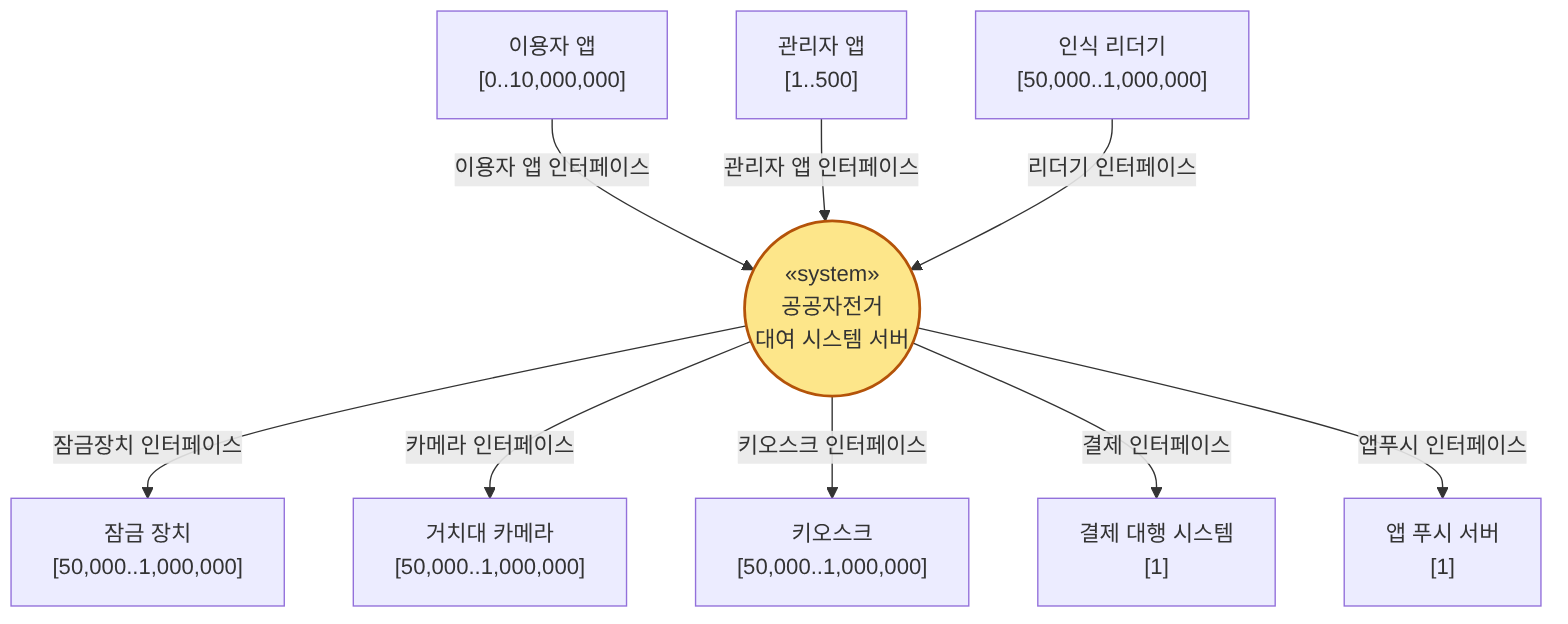
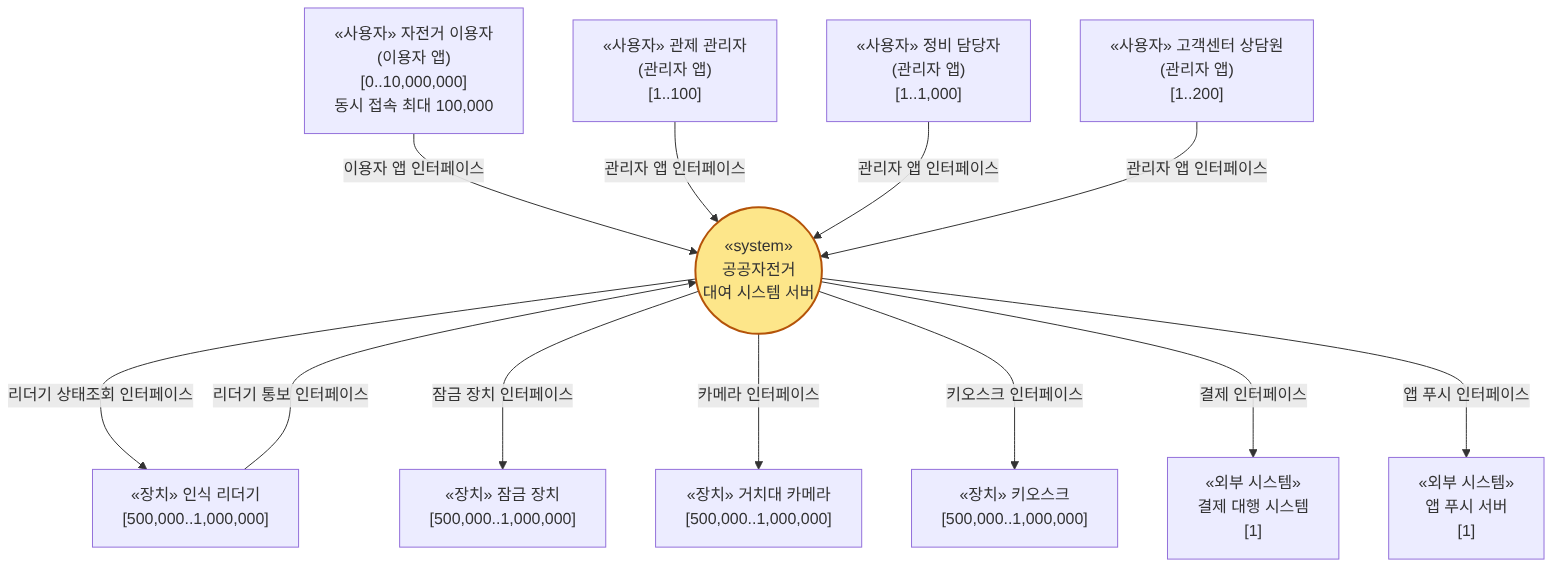
Gemini와 ChatGPT(모두 무료 버전) 리뷰 결과 반영

diff --git a/system_overview.md b/system_overview.md
@@ -26,18 +26,17 @@ Interface의 목적/특성 등이 반영된 이름을 정의함.
 
 \* 화살표 방향은 최초 제어 방향(Client → Server), [ ]는 multiplicity. 원본: `diagrams/system_context.mmd`
 
-| External Interface | 방향 | 목적 |
-| --- | --- | --- |
-| 이용자 앱 인터페이스 | 이용자 앱 → 시스템 | 대여소 조회, 예약, QR 대여 요청, 결제수단·미결제 요금 처리, 이용 이력 조회 |
-| 관리자 앱 인터페이스 | 관리자 앱 → 시스템 | 대여소·장비 현황 관제, 원격 잠금/해제, 정비·재배치 관리, 기준값 설정 |
-| 리더기 인터페이스 | 인식 리더기 → 시스템 | 자전거 식별 태그 인식 통보(반납·재배치 거치 시작) |
-| 잠금장치 인터페이스 | 시스템 → 잠금 장치 | 잠금/해제 명령과 잠금 결과 확인 |
-| 카메라 인터페이스 | 시스템 → 거치대 카메라 | 반납 자전거 촬영 요청과 영상 수신 |
-| 키오스크 인터페이스 | 시스템 → 키오스크 | 대여·반납 결과와 거치대 상태 표시 |
-| 결제 인터페이스 | 시스템 → 결제 대행 시스템 | 예약 수수료·이용 요금 결제 승인, 취소, 거래 결과 조회 |
-| 앱푸시 인터페이스 | 시스템 → 앱 푸시 서버 | 이용자(반납 확정, 결제 실패, 예약 취소)와 관리자(장비 고장, 재배치 추천, 정비 필요)에게 알림 발송 요청 |
-
-\* 장치 4종의 상태 수집은 각 장치 인터페이스 채널에 포함되며, 수집 방식(주기적 조회 또는 주기적 보고)은 Design Decision에서 결정한다.
+| External Interface | 방향 | 유형 | 목적 |
+| --- | --- | --- | --- |
+| 이용자 앱 인터페이스 | 자전거 이용자 → 시스템 | 요청/응답 | 대여소 조회, 예약·예약 취소, QR 대여 요청, 결제수단 등록, 미결제 요금 해결, 이용 이력 조회 |
+| 관리자 앱 인터페이스 | 관제 관리자, 정비 담당자, 고객센터 상담원 → 시스템 | 요청/응답 | (관제) 대여소·장비 현황 조회, 재배치 추천 대여소 조회, 원격 잠금/해제, 기준값 설정 / (정비) 정비 필요 자전거 조회, 정비 완료 처리 / (상담) 이용·결제 이력 조회 |
+| 리더기 통보 인터페이스 | 인식 리더기 → 시스템 | 이벤트 통보 | 자전거 식별 태그 인식 통보(반납·재배치 거치 시작) |
+| 리더기 상태조회 인터페이스 | 시스템 → 인식 리더기 | 요청/응답 | 리더기 기능별 상태 조회 |
+| 잠금 장치 인터페이스 | 시스템 → 잠금 장치 | 요청/응답 | 잠금/해제 명령과 잠금 결과 확인, 기능별 상태 조회 |
+| 카메라 인터페이스 | 시스템 → 거치대 카메라 | 요청/응답 | 반납 자전거 촬영 요청과 영상 수신, 기능별 상태 조회 |
+| 키오스크 인터페이스 | 시스템 → 키오스크 | 요청/응답 | 대여·반납 결과와 거치대 상태 표시, 기능별 상태 조회 |
+| 결제 인터페이스 | 시스템 → 결제 대행 시스템 | 요청/응답 | 결제 토큰(빌링키) 발급, 예약 수수료·이용 요금 결제 승인, 취소, 거래 결과 조회 |
+| 앱 푸시 인터페이스 | 시스템 → 앱 푸시 서버 | 알림 발송 요청 | 이용자(반납 확정, 결제 실패, 예약 취소)와 관리자(장비 고장, 재배치 추천, 정비 필요)에게 보낼 알림 발송 요청. 단말 전달은 비동기 |
 
 ## External Entity List
 <!--
@@ -53,14 +52,16 @@ System Context Diagram의 각 External entity가 모두 나열되어야 함.
 
 | Name | Kind | Description |
 | --- | --- | --- |
-| 이용자 앱 | 외부 시스템 (사용자 단말 앱) | **역할**: 자전거 이용자가 대여소 조회·예약, QR 스캔 대여, 결제수단 등록, 미결제 요금 해결을 요청하는 모바일 앱. 개발 범위 밖이며 시스템이 제공하는 인터페이스를 사용함<br>**Multiplicity**: 누적 0..10,000,000 계정 (현재 회원 500만 가정 × BG-18의 2배 확장), 출퇴근 피크 동시 접속 최대 100,000<br>**단말 환경/숙련도**: Android·iOS 스마트폰, LTE/5G·Wi-Fi(이동 중 통신 품질 변동). 연령대가 다양한 일반인으로 숙련도 편차가 큼 |
-| 관리자 앱 | 외부 시스템 (관리자 단말 앱) | **역할**: 관제 관리자·정비 담당 관리자가 전국 대여소 현황 확인, 원격 잠금/해제, 정비·재배치 관리, 기준값 설정을 요청하는 앱<br>**Multiplicity**: 1..500 (관제센터 및 지자체별 관리자, 전국 약 250개 지자체 × 2명)<br>**단말 환경/숙련도**: 업무용 태블릿·스마트폰, 사내망/LTE. 운영 교육을 받은 숙련 사용자 |
-| 인식 리더기 | 외부 장치 | **역할**: 거치대에 꽂힌 자전거의 식별 태그를 읽어 시스템에 통보하여 반납 또는 재배치 거치를 시작시킴<br>**Multiplicity**: 50,000..1,000,000 (거치대당 1대, 5만 대여소 × 평균 10거치대 = 50만, BG-18 확장 고려 최대 100만)<br>**품질 수준**: 태그 인식 후 0.5초 이내 통보. 대여소 네트워크 장애 시 일시적으로 통신이 끊길 수 있고, 재연결 후 같은 인식 이벤트가 중복 전달될 수 있음 |
-| 잠금 장치 | 외부 장치 | **역할**: 시스템의 명령에 따라 거치대의 자전거를 잠그거나 풀고, 잠금 결과(잠금 확인)를 응답함<br>**Multiplicity**: 50,000..1,000,000 (거치대당 1대)<br>**품질 수준**: 명령 수신 후 1초 이내 동작 및 결과 응답. 기계적 고장·자전거 미삽입으로 잠금 실패가 발생할 수 있음 |
-| 거치대 카메라 | 외부 장치 | **역할**: 시스템의 요청에 따라 반납된 자전거를 촬영하여 영상을 전달함. 파손 판정은 시스템이 수행함<br>**Multiplicity**: 50,000..1,000,000 (거치대당 1대)<br>**품질 수준**: 요청 후 2초 이내 촬영 영상(약 1MB) 전송. 야간·우천·역광 시 영상 품질이 낮아질 수 있음 |
-| 키오스크 | 외부 장치 | **역할**: 거치대별 안내 화면으로, 시스템이 보낸 대여·반납 결과와 거치대 상태(대여 가능 / 정비 필요 / 빈 거치대)를 현장 이용자에게 표시함<br>**Multiplicity**: 50,000..1,000,000 (거치대당 1대)<br>**품질 수준**: 표시 요청 후 0.5초 이내 출력 |
-| 결제 대행 시스템 | 외부 시스템 | **역할**: 등록된 신용카드로 예약 수수료·이용 요금 결제를 승인·취소하고 거래 결과를 제공하는 PG사 시스템<br>**Multiplicity**: 1 (단일 PG사 계약)<br>**품질 수준**: 가용성 99.9%(카드사별 정기 점검 시간 존재), 승인 응답 평균 1~3초, 거래 고유번호로 결과 조회 가능. 전자금융거래 안전성 기준 준수 |
-| 앱 푸시 서버 | 외부 시스템 | **역할**: 시스템의 발송 요청을 받아 이용자 앱·관리자 앱에 푸시 알림을 전달하는 외부 서비스(예: FCM)<br>**Multiplicity**: 1<br>**품질 수준**: 가용성 99.9%. 전달은 best-effort로 지연·누락될 수 있어 알림 수신을 보장하지 않음 |
+| 자전거 이용자 | 사용자 | **역할**: 이용자 앱으로 대여소를 조회·예약하고, QR 스캔으로 자전거를 대여하며, 결제수단 등록과 미결제 요금 해결을 요청함. 반납은 거치대에 꽂는 것으로 이루어져 시스템과 직접 주고받지 않음<br>**Multiplicity**: 누적 0..10,000,000 계정(현재 회원 500만 × BG-12의 2배 확대), 출퇴근 피크 동시 접속 최대 100,000<br>**단말 환경**: 개발 범위 밖의 이용자 앱(Android·iOS). 이동 중 LTE/5G 통신 품질이 변해 요청이 끊길 수 있고, 앱은 10초 동안 응답이 없으면 같은 요청을 다시 보내므로 동일 요청이 중복 도착할 수 있음<br>**숙련도·사용 행태**: 고령층·외국인을 포함한 일반인으로 숙련도 편차가 큼. 출퇴근 시간대에 이용이 몰리고, 야외에서 서서 한 손으로 조작하며 야간·우천 시에도 이용함 |
+| 관제 관리자 | 사용자 | **역할**: 관리자 앱으로 담당 범위(운영기관 중앙 관제센터는 전국, 지자체 관제 담당은 소속 시·도) 대여소의 거치대·자전거·빈 거치대 현황, 장비 고장 알림, 재배치 추천 대여소를 확인하고, 잠금 장치를 원격으로 잠그거나 풀며(재배치 시 "재배치 중" 지정), 대여 가능 기준값을 설정함<br>**Multiplicity**: 1..100 (중앙 관제센터 및 17개 시·도 관제 × 24시간 3교대 × 근무조당 약 2명)<br>**단말 환경/숙련도**: 관제센터 PC·업무용 태블릿의 관리자 앱, 사내망. 운영 교육을 받은 숙련 사용자 |
+| 정비 담당자 | 사용자 | **역할**: 관리자 앱으로 정비 필요 자전거 목록과 위치를 확인하고, 정비 완료 후 대여 가능 상태로 복귀시킴<br>**Multiplicity**: 1..1,000 (운영 자전거 35만 대 ÷ 1인당 약 500대 = 700명, 확대 고려)<br>**단말 환경/숙련도**: 현장용 스마트폰의 관리자 앱, LTE. 정비 교육을 받은 사용자로 야외 작업 중 짧게 조회함 |
+| 고객센터 상담원 | 사용자 | **역할**: 관리자 앱(상담 권한)으로 민원 이용자의 대여·반납·결제 이력을 조회하여 요금 민원에 응대함. 환불 처리는 결제 대행사 관리 도구에서 별도로 수행함<br>**Multiplicity**: 1..200 (동시 근무 상담원 수)<br>**단말 환경/숙련도**: 상담센터 PC의 관리자 앱, 사내망. 업무 숙련 사용자 |
+| 인식 리더기 | 외부 장치 | **역할**: 거치대에 꽂힌 자전거의 식별 태그를 읽어 시스템에 통보하여 반납 또는 재배치 거치를 시작시키고, 시스템의 상태 조회에 응답함<br>**Multiplicity**: 500,000..1,000,000 (거치대당 1대, 5만 대여소 × 평균 10거치대 = 50만, BG-12 확대 시 100만)<br>**품질 수준**: (모두 가정값) 태그 인식 후 0.5초 이내 통보, 상태 조회 0.5초 이내 응답. 태그 오인식률 인식 건당 0.1% 이하. 고장률 장치당 연 2%(연간 고장 건수 ÷ 설치 대수), 현장 복구 평균 24시간. 네트워크 단절 후 재연결 시 같은 인식 통보가 중복 전달될 수 있음 |
+| 잠금 장치 | 외부 장치 | **역할**: 시스템의 명령에 따라 거치대의 자전거를 잠그거나 풀고, 잠금 결과와 상태를 응답함<br>**Multiplicity**: 500,000..1,000,000 (거치대당 1대)<br>**품질 수준**: (모두 가정값) 명령 수신 후 1초 이내 동작·결과 응답. 일시적 잠금 실패(자전거 미삽입·걸림 등, 재시도로 해소)는 명령 건당 0.5% 이하. 기계적 고장은 장치당 연 3%, 현장 복구 평균 24시간 |
+| 거치대 카메라 | 외부 장치 | **역할**: 시스템의 요청에 따라 반납된 자전거를 촬영해 영상을 전달하고 상태 조회에 응답함. 파손 판정은 시스템이 수행함<br>**Multiplicity**: 500,000..1,000,000 (거치대당 1대)<br>**품질 수준**: (모두 가정값) 요청 후 2초 이내 JPEG 영상(1920×1080, 약 500KB) 전송. 야간·우천·역광·렌즈 오염 시 판정에 쓸 수 없는 영상이 촬영 건당 최대 3% 나올 수 있음. 고장률 장치당 연 3%, 현장 복구 평균 48시간 |
+| 키오스크 | 외부 장치 | **역할**: 거치대별 안내 화면으로, 시스템이 보낸 대여·반납 결과와 거치대 상태(대여 가능 / 정비 필요 / 빈 거치대)를 현장 이용자에게 표시하고 상태 조회에 응답함<br>**Multiplicity**: 500,000..1,000,000 (거치대당 1대)<br>**품질 수준**: (모두 가정값) 표시 요청 후 0.5초 이내 출력. 고장률 장치당 연 2%, 현장 복구 평균 24시간 |
+| 결제 대행 시스템 | 외부 시스템 | **역할**: 이용자가 카드 인증을 마치면 결제 토큰(빌링키)을 발급하고, 그 토큰으로 예약 수수료·이용 요금의 결제 승인·취소를 수행하며 거래 결과를 제공하는 PG사 시스템<br>**Multiplicity**: 1 (단일 PG사 계약)<br>**품질 수준**: 가용성 99.9%(카드사별 정기 점검 시간 존재). 가맹점당 허용 처리량 초당 500건. 승인 응답 평균 1~3초, 10초 안에 응답이 없으면 거래 고유번호로 결과를 조회해 확인해야 함. 전자금융거래 안전성 기준 준수 |
+| 앱 푸시 서버 | 외부 시스템 | **역할**: 시스템의 발송 요청을 받아 이용자 앱·관리자 앱에 푸시 알림을 전달하는 외부 서비스(예: FCM)<br>**Multiplicity**: 1<br>**품질 수준**: 가용성 99.9%. 발송 요청 접수 초당 1,000건 이상, 접수 응답 0.5초 이내. 실제 단말 전달은 best-effort로 지연·누락될 수 있어 수신을 보장하지 않음 |
 
 ## System Feature List
 <!--
@@ -83,18 +84,19 @@ Feature의 Importance가 타당해야 함. 즉 관련 Business goal의 Stakehold
 | ID | Title | Description | I | Related<br>Business Goal ID |
 | --- | --- | --- | --- | --- |
 | SF-01 | 헛걸음 없는 대여소 찾기와 자전거 예약 | 이용자는 가려는 곳 주변 대여소의 실제 대여 가능 자전거 수와 빈 거치대 수를 미리 확인하고, 자전거를 예약해 15분 동안 확보할 수 있다. 도착했는데 자전거가 없거나 반납할 곳이 없는 일을 줄인다. | 상 | BG-01 |
-| SF-02 | 기다림 없는 대여와 어디서나 반납 | 이용자는 QR 스캔만으로 곧바로 자전거를 빼고, 어느 대여소에든 꽂기만 하면 바로 반납이 확정되어 키오스크와 앱으로 확인받는다. 반납이 됐는지 불안해할 필요가 없다. | 상 | BG-01, BG-02 |
-| SF-03 | 이용한 만큼만 정확한 자동 요금 정산 | 반납 확정 시점까지의 이용 시간으로 요금이 계산되고 예약 수수료를 뺀 금액이 등록 카드로 자동 결제된다. 한 번의 이용에 요금이 두 번 청구되거나 빠지는 일이 없고, 상담원은 이용·결제 이력으로 민원을 바로 확인한다. | 상 | BG-03, BG-09, BG-11, BG-12 |
-| SF-04 | 미결제 요금 회수 | 자동 결제가 실패하면 이용자에게 즉시 알리고, 미결제 요금을 해결할 때까지 새 대여를 막아 운영기관의 미수금을 줄인다. | 중 | BG-09 |
-| SF-05 | 반납 자전거 자동 안전 점검 | 반납된 자전거를 거치대 카메라로 자동 점검해 파손 자전거는 다음 이용자에게 대여되지 않도록 바로 막고, 정비 담당자에게 정비 대상으로 알린다. 정상 자전거를 잘못 막는 일도 줄인다. | 상 | BG-04, BG-07 |
-| SF-06 | 대여소 장비 고장 즉시 인지 | 리더기, 잠금 장치, 카메라, 키오스크의 상태를 계속 확인하여 고장이 나면 민원이 들어오기 전에 관리자에게 알린다. | 상 | BG-05, BG-15 |
-| SF-07 | 전국 대여소 한눈에 관제와 원격 조치 | 관리자는 전국 대여소의 거치대·자전거·빈 거치대 현황을 한 곳에서 보고, 현장에 가지 않고 잠금 장치를 원격으로 잠그거나 풀 수 있다. | 중 | BG-05, BG-06, BG-10 |
-| SF-08 | 자전거 불균형 해소 지원 | 자전거가 부족하거나 거치대가 가득 찬 대여소를 주기적으로 찾아 관리자에게 추천하고, 재배치 중인 자전거는 요금 없이 도착 대여소에 바로 반영되어 재배치 기사의 사후 정정 작업이 없다. | 중 | BG-06, BG-08 |
-| SF-09 | 이용자 개인정보와 결제 정보 보호 | 이용자의 개인정보와 카드 정보가 외부로 새지 않도록 보호하여 이용자는 안심하고 카드를 등록하고, 운영기관은 법적 책임과 신뢰 하락 위험을 줄인다. | 상 | BG-17 |
-| SF-10 | 365일 24시간 끊김 없는 서비스 | 출퇴근 시간에 이용이 몰리거나 일부 서버·외부 시스템에 문제가 생겨도 대여·반납이 멈추지 않는다. | 상 | BG-15 |
-| SF-11 | 대여소·회원 증가에도 같은 서비스 품질 | 대여소와 회원이 늘어나도 대여·반납 속도가 유지되고, 새 대여소는 등록만으로 서비스를 시작해 운영비 증가를 억제한다. | 중 | BG-18, BG-10 |
-| SF-12 | 다양한 제조사 장비의 손쉬운 연동 | 장비 제조사가 바뀌거나 새 장비 모델이 들어와도 기존 서비스를 건드리지 않고 짧은 기간에 연동해 개발·시험 부담을 줄인다. | 중 | BG-13, BG-14, BG-16 |
-| SF-13 | 요금 정책 변경의 신속한 반영 | 요금·예약 수수료 정책이 바뀌면 다른 기능에 영향 없이 빠르게 반영해 운영기관의 정책 변경 요구에 대응한다. | 하 | BG-16 |
+| SF-02 | 기다림 없는 대여와 어디서나 반납 | 이용자는 QR 스캔만으로 곧바로 자전거를 빼고, 어느 대여소에든 꽂기만 하면 바로 반납이 확정되어 현장 키오스크로 즉시 확인받고, 앱에서도 반납 확정 알림과 이용 내역을 확인할 수 있다. | 상 | BG-01, BG-02 |
+| SF-03 | 이용한 만큼만 정확한 자동 요금 정산 | 반납이 확정된 시점까지의 이용 시간으로 요금이 계산되고, 예약 수수료를 뺀 금액이 등록 카드로 자동 결제된다. 한 번의 이용에 요금이 두 번 청구되거나 빠지는 일이 없어 이용자와 PG사 모두 사후 정정 업무가 없다. | 상 | BG-03, BG-10, BG-14 |
+| SF-04 | 미결제 요금 회수 | 자동 결제가 실패하면 이용자에게 바로 알리고, 미결제 요금을 해결할 때까지 새 대여를 막아 운영기관의 미수금을 줄인다. | 중 | BG-10 |
+| SF-05 | 반납 자전거 자동 안전 점검 | 반납된 자전거를 거치대 카메라로 자동 점검해 파손 자전거는 다음 이용자에게 대여되지 않도록 바로 막고, 정비 담당자에게 정비 대상으로 알린다. 정상 자전거를 잘못 막아 불필요한 출동이 생기는 일도 줄인다. | 상 | BG-04, BG-08 |
+| SF-06 | 대여소 장비 고장 즉시 인지 | 리더기, 잠금 장치, 카메라, 키오스크의 상태를 계속 확인하여 고장이 나면 민원이 들어오기 전에 관제 관리자에게 알린다. | 상 | BG-06, BG-17 |
+| SF-07 | 전국 대여소 한눈에 관제와 원격 조치 | 관제 관리자는 전국 대여소의 거치대·자전거·빈 거치대 현황을 한 곳에서 보고, 현장에 가지 않고 잠금 장치를 원격으로 잠그거나 풀 수 있다. | 중 | BG-06, BG-07, BG-11 |
+| SF-08 | 자전거 불균형 해소 지원 | 자전거가 부족하거나 거치대가 가득 찬 대여소를 주기적으로 찾아 관제 관리자에게 추천하고, 재배치 중인 자전거는 요금 없이 도착 대여소에 바로 반영되어 재배치 기사의 사후 확인·정정 업무가 없다. | 중 | BG-07, BG-09 |
+| SF-09 | 이력 기반 신속한 민원 응대 | 고객센터 상담원은 민원 이용자의 대여·반납·결제 이력을 바로 조회해 요금 민원을 짧은 시간 안에 확인하고 답변한다. | 하 | BG-13 |
+| SF-10 | 이용자 개인정보와 결제 정보 보호 | 이용자의 개인정보와 카드 정보가 외부로 새지 않도록 보호하여 이용자는 안심하고 카드를 등록하고, 운영기관은 법적 책임과 신뢰 하락 위험을 줄인다. | 상 | BG-05 |
+| SF-11 | 365일 24시간 끊김 없는 서비스 | 출퇴근 시간에 이용이 몰리거나 일부 장비나 시스템·외부 연동에 문제가 생겨도 대여·반납이 중단되는 시간을 최소화한다. 결제 대행 시스템에 문제가 생겨도 반납은 확정되고 결제는 나중에 마무리된다. | 상 | BG-17 |
+| SF-12 | 대여소·회원 증가에도 같은 서비스 품질 | 대여소와 회원이 늘어나도 대여·반납이 느려지지 않고, 새 대여소는 등록만으로 서비스를 시작해 운영 인력과 비용 증가를 억제한다. | 중 | BG-12, BG-11 |
+| SF-13 | 다양한 제조사 장비의 손쉬운 연동 | 장비 제조사가 바뀌거나 새 장비 모델이 들어와도 기존 서비스를 건드리지 않고 짧은 기간에 연동하여, 공급업체·개발 조직·유지보수 조직의 연동·재시험 부담을 줄인다. | 중 | BG-15, BG-16, BG-18 |
+| SF-14 | 요금 정책 변경의 신속한 반영 | 요금·예약 수수료 정책이 바뀌면 다른 업무에 영향 없이 빠르게 반영해 운영기관의 정책 변경 요구에 대응한다. | 중 | BG-18 |
 
 \* I(Importance): 상 중 하로 구분
 
@@ -105,26 +107,44 @@ Feature의 Importance가 타당해야 함. 즉 관련 Business goal의 Stakehold
 특히 기존 안내 자료에서 표현된 조건이나 기능 중 본 과제를 위해 수정하였거나 확장한 부분이 있다면 그에 대해 기술한다.
 -->
 
+**사업 및 범위**
+
+1. 본 시스템은 기존 지자체별 개별 공공자전거 시스템을 대체하는 전국 단일 통합 플랫폼이다. 전국 단일 운영기관(공단)이 단일 요금 정책으로 운영하고, 회원·요금·결제 데이터는 운영기관이 일괄 관리한다. 운영기관 중앙 관제센터는 전국을 관제하고, 지자체(시·도)는 자기 지역 대여소에 대한 관제 권한만 가진다. 지자체 소속 관제 관리자 계정은 소속 지역의 대여소만 조회·조작할 수 있다.
+2. 이용자 앱과 관리자 앱은 개발 범위 밖이며, 시스템은 앱이 사용할 인터페이스만 제공한다. Context Diagram과 Use Case의 사용자는 앱을 통해 시스템을 이용하는 사람(자전거 이용자, 관제 관리자, 정비 담당자, 고객센터 상담원)으로 표현한다.
+3. 관리자 앱은 관제 관리자, 정비 담당자, 고객센터 상담원이 함께 사용하며 로그인 계정의 역할에 따라 사용할 수 있는 기능이 다르다.
+4. 앱 알림 전달을 위해 안내 자료에 없는 외부 앱 푸시 서버를 도입·연동한다. (안내 자료 확장)
+
 **규모 및 부하**
 
-1. 대여소는 5만 개, 대여소당 평균 10개의 거치대가 있으며 거치대마다 인식 리더기·잠금 장치·거치대 카메라·키오스크가 1대씩 설치된다(대여소 구성 그림 기준). 거치대는 총 50만 개이며, BG-18에 따라 최대 100만 개까지 확장될 수 있다고 가정한다.
-2. 운영 자전거는 약 35만 대(거치대 수의 70%), 회원은 현재 500만 명(최대 1,000만 명)으로 가정한다.
-3. 출퇴근 피크 시 대여·반납 요청은 각각 초당 최대 100건, 이용자 앱 동시 접속은 최대 10만으로 가정한다.
+5. 대여소는 5만 개, 대여소당 평균 10개의 거치대가 있으며 거치대마다 인식 리더기·잠금 장치·거치대 카메라·키오스크가 1대씩 설치된다. 거치대는 총 50만 개(장치 총 200만 대)이며, BG-12에 따라 최대 100만 개(장치 400만 대)까지 확대될 수 있다.
+6. 운영 자전거는 약 35만 대(거치대 수의 70%), 회원은 현재 500만 명(최대 1,000만 명)으로 가정한다.
+7. 출퇴근 피크 시 부하는 다음과 같이 가정한다: 이용자 앱 동시 접속 최대 10만, 대여소 조회 초당 최대 3,000건, 예약 초당 최대 30건, 대여·반납 각각 초당 최대 100건(결제 승인 요청은 초당 최대 130건). 반납마다 촬영이 1회 이루어지므로 반납 영상 수신은 피크 시 초당 약 50MB(약 400Mbps)이다.
+8. 장치 상태 조회 주기는 정하지 않는다. 장비 고장 인지 목표 시간(Quality Attribute로 정의)을 만족하도록 설계에서 정한다. 참고로 확대 규모 400만 대를 1분 주기로 조회하면 초당 약 6.7만 건, 5분 주기면 초당 약 1.3만 건이다.
 
-**외부 장치·시스템**
+**외부 장치·시스템 사양**
 
-4. 장치는 종류별로 제조사가 달라도 운영기관이 정한 표준 연동 규격을 따르므로, 같은 종류의 장치는 하나의 External Entity로 다룬다.
-5. 각 장치는 대여소 네트워크(유선 또는 LTE)를 통해 시스템에 직접 연결되며, 일시적인 통신 단절이 발생할 수 있다. 장치는 자가 진단 상태(정상/고장)를 제공한다. 상태 수집 방식(주기적 조회 또는 주기적 보고)은 설계에서 결정한다.
-6. 거치대 카메라는 촬영만 하며 파손 판정은 시스템이 수행한다.
-7. 결제 대행 시스템과 앱 푸시 서버는 일시적 장애는 있을 수 있으나 영구적으로 사용할 수 없는 상태가 되지는 않는다. 앱 푸시는 전달을 보장하지 않으므로 앱은 실행 시 최신 상태(반납 확정, 미결제 여부)를 조회해 보완한다.
-8. 이용자 앱과 관리자 앱은 개발 범위 밖이며, 시스템은 앱이 사용할 인터페이스만 제공한다.
+9. 장치는 표준 메시지 규격을 따르며, 모든 메시지의 공통 헤더에 장치 종류·제조사·모델·펌웨어 버전 필드가 있다. 기본 동작(태그 인식 통보, 잠금/해제, 촬영, 표시, 상태 응답)은 표준 형식을 쓰지만, 오류 코드 체계·상세 진단 정보·장치별 설정 파라미터는 제조사·모델별 확장 영역에 담기며 형식이 서로 다르다. 장치 종류별로 2~3개 제조사가 공급하며, 같은 종류의 장치는 역할과 품질 수준이 같으므로 하나의 External Entity로 다룬다.
+10. 장치 4종은 모두 시스템의 상태 조회 요청에 응답하며 스스로 상태를 보고하지는 않는다. 상태 응답은 장치 전체의 정상/고장뿐 아니라 기능별 상태(예: 잠금 기능 고장, 촬영 기능 정상)를 포함한다. 대여소 장치는 운영기관 전용 사설망(유선 구간은 VPN, LTE 구간은 통신사 사설 APN과 고정 사설 IP)으로 시스템과 연결되어, 시스템이 각 장치에 직접 요청을 보낼 수 있고 장치도 시스템에 직접 통보할 수 있다. 일시적인 통신 단절은 발생할 수 있다. 상태 조회에 응답이 없는 경우(통신 단절)와 장치가 고장을 응답한 경우는 구분하여 기록한다.
+11. 거치대 카메라는 촬영만 하며 파손 판정은 시스템이 수행한다.
+12. 결제 대행 시스템과 앱 푸시 서버는 일시적 장애는 있을 수 있으나 영구적으로 사용할 수 없는 상태가 되지는 않는다. 앱 푸시는 전달을 보장하지 않으므로 앱은 실행 시 최신 상태(반납 확정, 미결제 여부)를 조회해 보완한다.
+
+**개인정보·데이터 보존**
+
+13. 시스템은 신용카드 번호를 받거나 저장하지 않는다. 이용자 앱은 결제 대행 시스템의 카드 등록 화면에서 카드 인증을 마친 뒤 받은 일회용 인증키를 이용자 앱 인터페이스로 시스템에 전달하여 결제수단 등록을 요청한다. 시스템은 이 인증키로 결제 대행 시스템에 결제 토큰(빌링키) 발급을 요청하고, 발급된 빌링키만 저장해 결제에 사용한다. 빌링키는 이용자 앱으로 전달하지 않는다.
+14. 거치대 카메라 영상은 자전거만 촬영하도록 설치된다. 판정에 쓴 원본 영상은 30일 보관 후 삭제하고, 판정 결과는 자전거 정비 이력으로 보관한다.
 
 **업무 규칙 (안내 자료 해석·확장)**
 
-9. 이용자는 동시에 1건만 예약 또는 대여할 수 있으며, 예약은 대여소의 특정 자전거를 지정한다.
-10. 이용 요금에서 예약 수수료를 차감한 금액이 0원 미만이면 0원으로 처리하며 차액은 환불하지 않는다.
-11. 반납 확정 시각은 잠금 장치의 잠금이 확인된 시각이다. 잠금에 실패하면 반납은 확정되지 않고 키오스크로 재거치를 안내한다.
-12. 미결제 요금은 이용자가 앱에서 결제수단을 변경하거나 재결제를 요청하여 해결한다.
-13. 파손 판정 자전거는 정비 완료 후 관리자가 관리자 앱에서 대여 가능 상태로 복귀시킨다. (안내 자료 확장)
-14. "재배치 중" 자전거는 다른 이용자에게 대여할 수 없으며, 다른 대여소의 리더기에 인식되면 해당 대여소에 거치된 것으로 반영되고 "재배치 중" 상태가 해제된다.
-15. 대여 가능 자전거 기준값은 관리자가 대여소별로 설정하며, 재배치 추천 검색은 10분 주기로 수행한다.
+15. 이용자는 동시에 1건만 예약 또는 대여할 수 있으며, 예약은 대여소의 특정 자전거를 지정한다.
+16. 예약 요청 시 시스템은 먼저 이용자의 미결제 요금, 진행 중인 예약·대여 여부, 예약할 자전거의 대여 가능 상태를 확인하고, 모두 충족될 때만 예약 수수료를 결제한다.
+17. 예약 수수료 결제가 승인된 뒤 그 사이 다른 이용자의 대여 등으로 자전거를 확보하지 못하면, 시스템이 예약을 취소하고 수수료 결제를 취소(환불)한다.
+18. 이용자는 15분 안에 예약을 직접 취소할 수 있으며, 이 경우에도 예약 수수료는 환불하지 않는다. 단, 예약 시간 중 예약 자전거가 정비 필요로 바뀌거나 해당 거치대 장치에 고장이 감지되면 시스템이 예약을 취소하고 수수료를 환불하며 이용자에게 알린다. (안내 자료 확장)
+19. 이용 요금에서 예약 수수료를 차감한 금액이 0원 미만이면 0원으로 처리하며 차액은 환불하지 않는다.
+20. 반납 확정 시각은 잠금 장치의 잠금이 확인된 시각이다. 잠금에 실패하면 반납은 확정되지 않고 키오스크로 재거치를 안내한다.
+21. 반납 확정은 결제와 분리된다. 반납은 결제 결과를 기다리지 않고 확정되며, 이용 요금 결제는 그 뒤에 진행된다.
+22. 결제 대행 시스템의 응답이 없고 거래 결과 조회로도 확인되지 않으면 해당 결제는 "결제 확인 중"으로 두고 확인될 때까지 다시 조회한다. "결제 확인 중"은 미결제로 보지 않으므로 신규 대여를 허용한다. 확인 결과가 실패이면 그때 미결제로 처리하고 이용자에게 알린다. (BG-02·BG-17을 우선하고, 미수금 위험(BG-10)은 확인 후 대여 제한으로 줄인다)
+23. 파손 점검은 반납 확정·요금 결제와 별도로 진행되어 반납 확정을 늦추지 않는다. 점검이 끝날 때까지 해당 자전거는 대여할 수 없다(점검 중). 영상 불량이나 카메라 고장으로 판정할 수 없으면 안전을 우선하여 대여를 차단하고 정비 담당자에게 확인을 요청한다.
+24. 파손 판정 자전거는 정비 완료 후 정비 담당자가 관리자 앱에서 대여 가능 상태로 복귀시킨다. (안내 자료 확장)
+25. 미결제 요금은 이용자가 앱에서 결제수단을 변경하거나 재결제를 요청하여 해결한다.
+26. "재배치 중" 자전거는 다른 이용자에게 대여할 수 없으며, 다른 대여소의 리더기에 인식되면 요금 정산 없이 해당 대여소에 거치된 것으로 반영되고 "재배치 중" 상태가 해제된다.
+27. 대여 가능 자전거 기준값은 관제 관리자가 대여소별로 설정하며, 재배치 추천 검색은 10분 주기로 수행한다.
